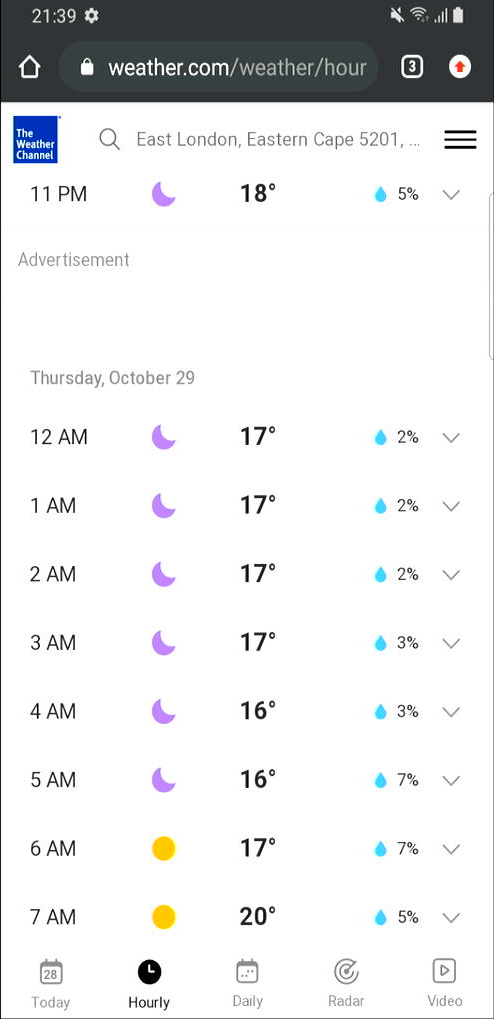
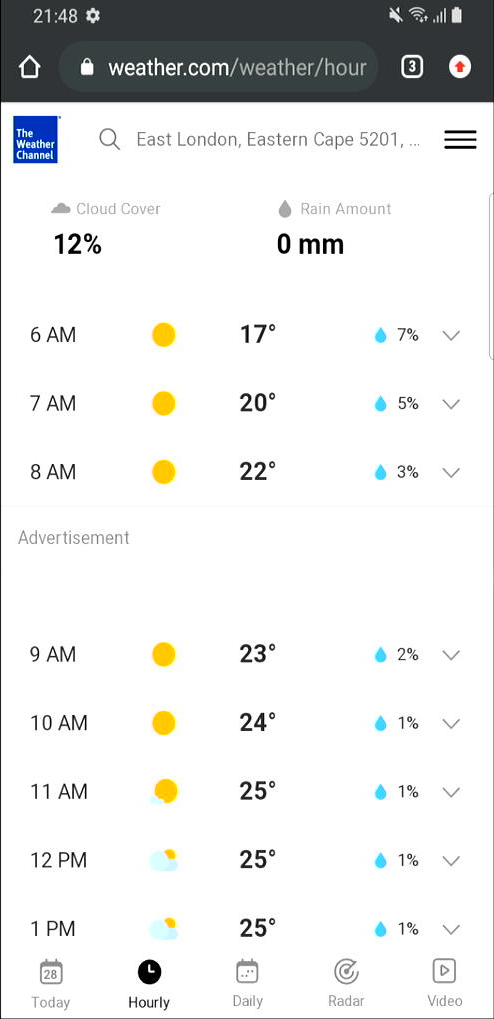
terminal output example, we are fixing esp32 rebbot

diff --git a/README.md b/README.md
@@ -1,1 +1,64 @@
 # stop-esp32-s3-to-reboot
+
+
+```
+Initializing HDMI capture...
+Waiting for capture card to lock HDMI signal...
+Acquiring a valid phone frame...
+  attempt 1: no active area, retrying...
+  attempt 2: no active area, retrying...
+  attempt 3: no active area, retrying...
+  attempt 4: no active area, retrying...
+  attempt 5: no active area, retrying...
+  attempt 6: no active area, retrying...
+  attempt 7: no active area, retrying...
+  attempt 8: no active area, retrying...
+  attempt 9: no active area, retrying...
+  attempt 10: no active area, retrying...
+  attempt 11: no active area, retrying...
+Active area: 494x1019 at offset (713,0)
+Connecting to ESP32 on /dev/serial/by-id/usb-1a86_USB_Single_Serial_5C63002523-if00...
+Waiting for ESP32 to answer PING...
+  [esp32] ESP-ROM:esp32s3-20210327
+  [esp32] Build:Mar 27 2021
+  [esp32] rst:0x1 (POWERON),boot:0x8 (SPI_FAST_FLASH_BOOT)
+  [esp32] SPIWP:0xee
+  [esp32] mode:DIO, clock div:1
+  [esp32] load:0x3fce2820,len:0x10cc
+  [esp32] load:0x403c8700,len:0xc2c
+  [esp32] load:0x403cb700,len:0x30b0
+  [esp32] entry 0x403c88b8
+ESP32 is READY.
+Sending resolution: 494x1019
+  [esp32] RECV: PING
+  [esp32] READY
+  [esp32] RECV: PING
+  [esp32] READY
+  [esp32] RECV: PING
+  [esp32] READY
+  [esp32] RECV: PING
+  [esp32] READY
+  [esp32] RECV: PING
+  [esp32] READY
+  [esp32] RECV: PING
+  [esp32] READY
+  [esp32] RECV: RES 494 1019
+Resolution synced.
+
+===== Closed-Loop Test =====
+
+>>> TAP 247 509
+  [esp32] RECV: TAP 247 509
+  [esp32] LAPTOP TAP  x=16383 y=16367
+<<< DONE
+  saved proof_1_tap_center.png
+
+>>> SWIPE 247 764 247 254 500
+  [esp32] RECV: SWIPE 247 764 247 254 500
+  [esp32] LAPTOP SWIPE
+<<< DONE
+  saved proof_2_swipe_up.png
+
+Test complete. Check debug_active_area.png and proof_*.png
+
+```
